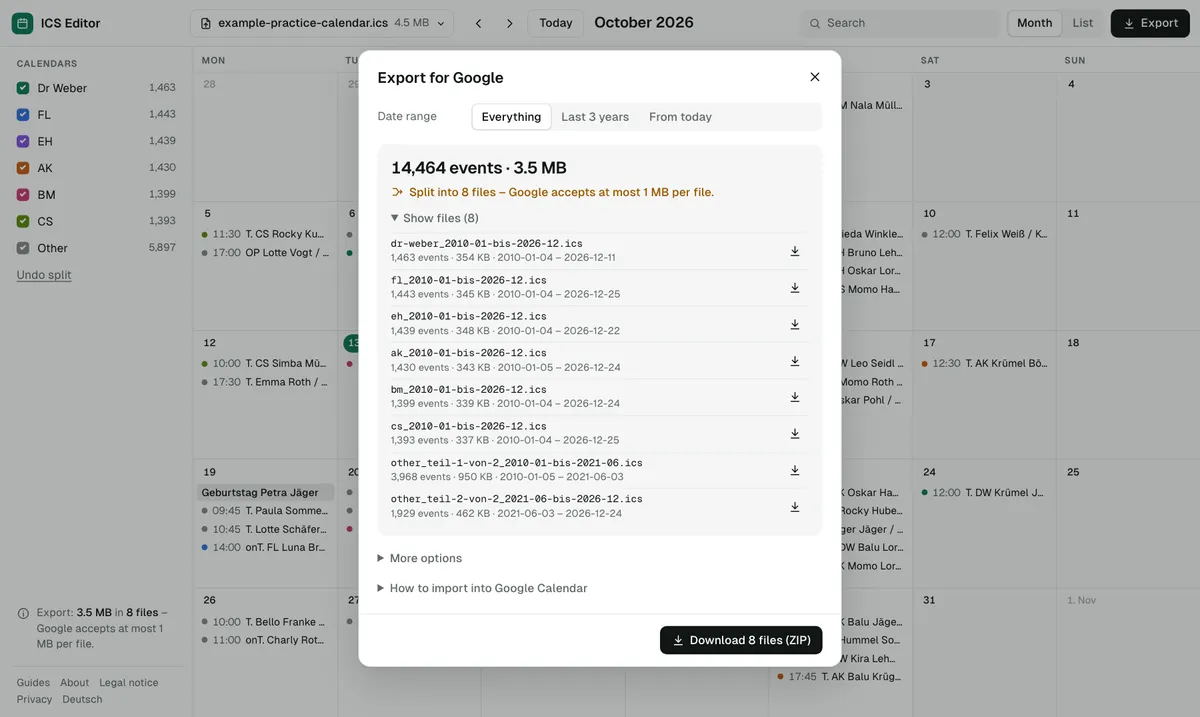
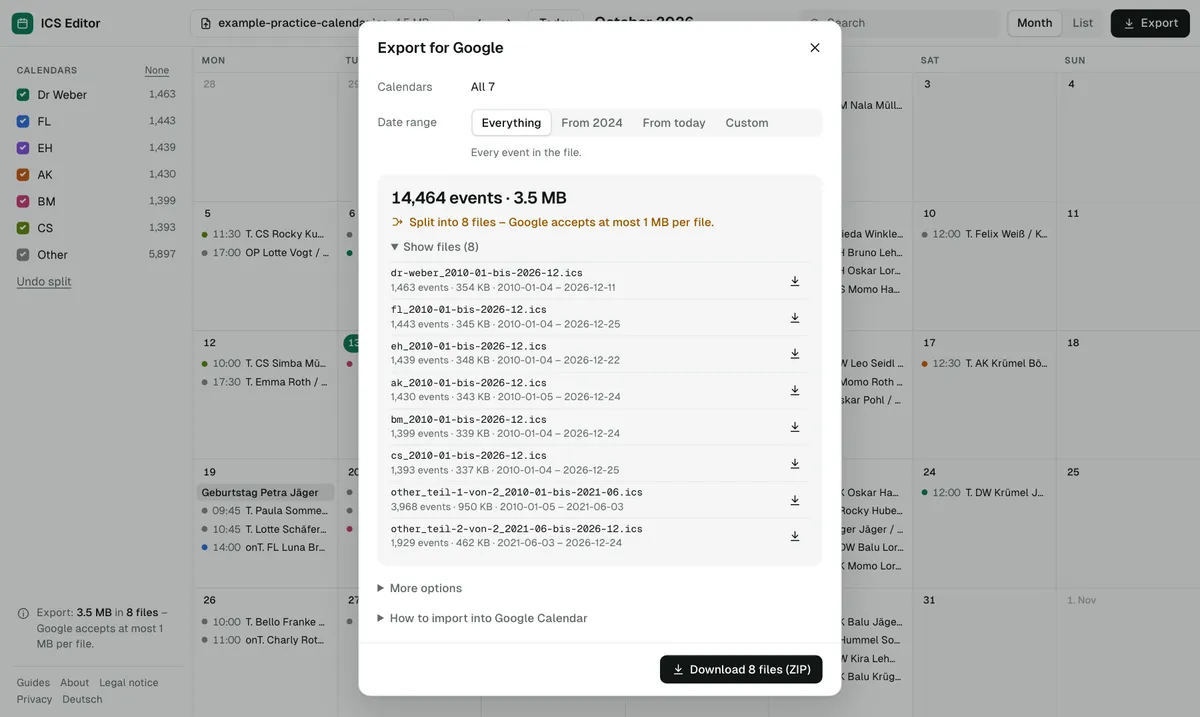
Export: nur angehakte Kalender, eigener Zeitraum, klarere Zeitraum-Knöpfe
- Links ausgeblendete Kalender kommen nicht in den Export; Hinweis „n von m“ mit „Alle einbeziehen“
- Seitenleiste: alle Kalender auf einmal ein- oder ausblenden
- Zeitraum „Eigener“: ganze Jahre (mehrere wählbar) oder Von–Bis
- „Letzte 3 Jahre“ heißt jetzt „Ab 2024“ und behält kommende Termine; Erklärzeile unter den Knöpfen
- Tests und Bildschirmfotos aktualisiert

diff --git a/src/components/tool/Export.tsx b/src/components/tool/Export.tsx
@@ -3,31 +3,34 @@ import { useState } from 'preact/hooks';
 import type { Format, Loaded, PlanRequest, PlanResult } from '../../lib/engine';
 import type { Selection, SplitConfig } from '../../lib/plan';
 import { ALL, NO_CLEAN } from '../../lib/plan';
+import { parseIsoDay } from '../../lib/datetime';
 import { call, download } from './client';
 import { H, Icon, useT } from './ui';
 import { Modal } from './Dialogs';
 
-export interface ExportOpts { range: 'all' | 'last3' | 'future'; admin: boolean; cancelled: boolean; dupes: boolean; phones: boolean; desc: boolean; uids: boolean; format: Format }
-export const DEFAULT_EXPORT: ExportOpts = { range: 'all', admin: true, cancelled: false, dupes: false, phones: false, desc: false, uids: false, format: 'ics' };
+export interface ExportOpts { range: 'all' | 'last3' | 'future' | 'custom'; from: string; to: string; years: number[]; admin: boolean; cancelled: boolean; dupes: boolean; phones: boolean; desc: boolean; uids: boolean; format: Format }
+export const DEFAULT_EXPORT: ExportOpts = { range: 'all', from: '', to: '', years: [], admin: true, cancelled: false, dupes: false, phones: false, desc: false, uids: false, format: 'ics' };
 
 const statusWords = (loaded: Loaded) => (loaded.suggestions.find((s) => s.kind === 'status')?.values ?? []).filter((v) => v.value !== 'STATUS:CANCELLED');
 
 /** Baut aus den Export-Optionen die Anfrage an den Rechenkern. */
-export function exportRequest(o: ExportOpts, sel: Selection, split: SplitConfig, loaded: Loaded): PlanRequest {
+export function exportRequest(o: ExportOpts, sel: Selection, split: SplitConfig, loaded: Loaded, hidden: string[]): PlanRequest {
   const y = new Date().getFullYear();
   return {
     selection: {
       ...ALL, today: sel.today, deleted: sel.deleted,
-      years: o.range === 'last3' ? [y - 2, y - 1, y] : null, hidePast: o.range === 'future',
+      years: o.range === 'custom' && o.years.length ? [...o.years].sort() : null, hidePast: o.range === 'future',
+      from: o.range === 'last3' ? Date.UTC(y - 2, 0, 1) : o.range === 'custom' ? parseIsoDay(o.from) : null, to: o.range === 'custom' ? parseIsoDay(o.to) : null,
       dropCancelled: o.cancelled, dropWords: o.cancelled ? statusWords(loaded).map((v) => v.value) : [], dedupe: o.dupes
     },
     clean: { ...NO_CLEAN, dropAdmin: o.admin, maskPhones: o.phones, maskEmails: o.phones, dropDescription: o.desc, newUids: o.uids },
-    split, format: o.format
+    split, format: o.format, hidden
   };
 }
 
-export function ExportDialog({ open, onClose, loaded, plan, opts, setOpts, req }: {
+export function ExportDialog({ open, onClose, loaded, plan, opts, setOpts, req, calCount, hiddenCount, onShowAll }: {
   open: boolean; onClose: () => void; loaded: Loaded; plan: PlanResult | null; opts: ExportOpts; setOpts: (o: ExportOpts) => void; req: PlanRequest;
+  calCount: number; hiddenCount: number; onShowAll: () => void;
 }) {
   const { t, n, b, d } = useT();
   const [busy, setBusy] = useState('');
@@ -45,6 +48,11 @@ export function ExportDialog({ open, onClose, loaded, plan, opts, setOpts, req }
   const tone = !plan || !plan.events ? 'bad' : files.length > withEvents ? 'warn' : 'ok';
   const status = !plan ? '' : !plan.events ? t('k.ex.empty') : files.length > withEvents ? t('k.ex.split', { n: files.length }) : files.length === 1 ? t('k.ex.fits1') : t('k.ex.fitsN', { n: files.length });
   const bytes = plan ? (plan.format === 'csv' ? plan.csv.bytes : plan.ics.bytes) : 0;
+  const years = (() => {
+    const m = new Map<number, number>();
+    for (const c of cals) for (const x of c.perYear) m.set(x.year, (m.get(x.year) ?? 0) + x.count);
+    return [...m.entries()].filter(([, c]) => c > 0).sort((a, b) => b[0] - a[0]);
+  })();
   const set = (k: keyof ExportOpts, v: ExportOpts[keyof ExportOpts]) => setOpts({ ...opts, [k]: v });
 
   async function get(which: { cal: string; part: number } | 'zip', key: string) {
@@ -67,10 +75,39 @@ export function ExportDialog({ open, onClose, loaded, plan, opts, setOpts, req }
         </button>
       </>
     }>
+      {calCount > 1 && (
+        <div class="xr">
+          <div class="xl">{t('k.ex.cals')}</div>
+          <div class="x-line">{hiddenCount > 0
+            ? <>{t('k.ex.calsSome', { n: calCount - hiddenCount, m: calCount })} · <button type="button" class="link" onClick={onShowAll}>{t('k.ex.calsInclude')}</button></>
+            : t('k.ex.calsAll', { m: calCount })}</div>
+        </div>
+      )}
       <div class="xr">
         <div class="xl" id="ex-range">{t('k.ex.range')}</div>
-        <div class="seg" role="group" aria-labelledby="ex-range">
-          {(['all', 'last3', 'future'] as const).map((r) => <button type="button" aria-pressed={opts.range === r} onClick={() => set('range', r)}>{t(r === 'all' ? 'k.ex.all' : r === 'last3' ? 'k.ex.last3' : 'k.ex.future')}</button>)}
+        <div class="stack-sm">
+          <div class="seg" role="group" aria-labelledby="ex-range">
+            {(['all', 'last3', 'future', 'custom'] as const).map((r) => <button type="button" aria-pressed={opts.range === r} onClick={() => set('range', r)}>{t(r === 'all' ? 'k.ex.all' : r === 'last3' ? 'k.ex.last3' : r === 'future' ? 'k.ex.future' : 'k.ex.custom', { y: new Date().getFullYear() - 2 })}</button>)}
+          </div>
+          <div class="muted small">{t(('k.ex.hint.' + opts.range) as 'k.ex.hint.all', { y: new Date().getFullYear() - 2, d: d(req.selection.today) })}</div>
+          {opts.range === 'custom' && (
+            <div class="custom">
+              <div class="dates">
+                <label>{t('k.ex.from')} <input type="date" value={opts.from} onChange={(e) => setOpts({ ...opts, from: (e.target as HTMLInputElement).value, years: [] })} /></label>
+                <label>{t('k.ex.to')} <input type="date" value={opts.to} onChange={(e) => setOpts({ ...opts, to: (e.target as HTMLInputElement).value, years: [] })} /></label>
+                {(opts.from || opts.to || opts.years.length > 0) && <button type="button" class="link small" onClick={() => setOpts({ ...opts, from: '', to: '', years: [] })}>{t('k.ex.reset')}</button>}
+              </div>
+              <div class="muted small">{t('k.ex.years')} · {t('k.ex.yearsHint')}</div>
+              <div class="ychips">
+                {years.map(([y, c]) => (
+                  <button type="button" aria-pressed={opts.years.includes(y)} title={n(c)}
+                    onClick={() => setOpts({ ...opts, from: '', to: '', years: opts.years.includes(y) ? opts.years.filter((x) => x !== y) : [...opts.years, y] })}>
+                    {y}<span>{n(c)}</span>
+                  </button>
+                ))}
+              </div>
+            </div>
+          )}
         </div>
       </div>
 

diff --git a/src/styles/site.css b/src/styles/site.css
@@ -175,6 +175,8 @@ html.studio-mode .tool-shell { position: fixed; inset: 0; z-index: 40; height: a
 /* Seitenleiste */
 .side { border-right: 1px solid var(--line); padding: 14px 12px 12px; display: flex; flex-direction: column; gap: 18px; overflow: auto; background: var(--bg); scrollbar-width: thin; }
 .label { font-size: 11px; font-weight: 600; letter-spacing: .07em; text-transform: uppercase; color: var(--muted); padding: 0 8px 6px; margin: 0; }
+.label-row { display: flex; align-items: baseline; justify-content: space-between; gap: 8px; padding-right: 8px; }
+.label-row .link { font-size: 12px; }
 .cals { list-style: none; margin: 0; padding: 0; }
 .cal { display: flex; align-items: center; gap: 10px; min-height: 32px; padding: 4px 8px; border-radius: 7px; cursor: pointer; }
 .cal:hover { background: var(--soft); }
@@ -301,6 +303,17 @@ dialog.dlg::backdrop { background: var(--scrim); }
 .df { display: flex; align-items: center; gap: 10px; padding: 14px 22px; border-top: 1px solid var(--line); flex-wrap: wrap; }
 .xr { display: grid; grid-template-columns: 100px minmax(0, 1fr); gap: 12px; align-items: start; }
 .xl { color: var(--muted); padding-top: 6px; }
+.x-line { padding-top: 6px; }
+.custom { display: flex; flex-direction: column; gap: 8px; border: 1px solid var(--line); border-radius: 10px; padding: 12px; }
+.dates { display: flex; flex-wrap: wrap; align-items: center; gap: 8px 14px; }
+.dates label { display: inline-flex; align-items: center; gap: 6px; color: var(--muted); }
+.dates input { border: 1px solid var(--line); border-radius: 7px; background: var(--bg); height: 32px; padding: 0 8px; color: var(--text); }
+.ychips { display: flex; flex-wrap: wrap; gap: 6px; }
+.ychips button { display: inline-flex; flex-direction: column; align-items: center; min-width: 58px; padding: 4px 8px; border: 1px solid var(--line); border-radius: 8px; background: var(--bg); font-weight: 500; font-variant-numeric: tabular-nums; line-height: 1.25; }
+.ychips button span { font-size: 11px; font-weight: 400; color: var(--muted); }
+.ychips button:hover { background: var(--soft); }
+.ychips button[aria-pressed="true"] { background: var(--text); color: var(--bg); border-color: var(--text); }
+.ychips button[aria-pressed="true"] span { color: var(--bg); opacity: .75; }
 .checks { display: flex; flex-direction: column; gap: 0; }
 .ck { display: flex; align-items: center; gap: 10px; min-height: 32px; padding: 4px 8px; margin: 0 -8px; border-radius: 7px; cursor: pointer; }
 .ck:hover { background: var(--soft); }

diff --git a/tests/e2e/tool.spec.ts b/tests/e2e/tool.spec.ts
@@ -140,9 +140,43 @@ test('Google-Export als ZIP mit zwei Kalendern', async ({ page }) => {
   await loaded(page);
   await expect(sidebarCal(page, 'Praxis')).toBeVisible();
   await expect(sidebarCal(page, 'Privat')).toBeVisible();
-  // Kalender ausblenden: Monatsansicht zeigt nur noch den anderen
+  // Ausgeblendete Kalender kommen nicht in den Export
   await sidebarCal(page, 'Privat').locator('input').uncheck();
   await expect(sidebarCal(page, 'Privat').locator('input')).not.toBeChecked();
+  await page.getByRole('button', { name: 'Exportieren' }).click();
+  const ex = page.getByRole('dialog', { name: 'Für Google exportieren' });
+  await expect(ex.getByText(/1 von 2/)).toBeVisible();
+  await ex.getByText(/Dateien? anzeigen|Dateiname/).click();
+  await expect(ex.locator('.files li')).toHaveCount(1);
+  await expect(ex.locator('.files')).not.toContainText(/privat/i);
+  await ex.getByRole('button', { name: 'Alle einbeziehen' }).click();
+  await expect(ex.getByText('Alle 2')).toBeVisible();
+  await page.keyboard.press('Escape');
+  // Alle auf einmal aus- und einblenden
+  await page.getByRole('button', { name: 'Alle Kalender ausblenden' }).click();
+  await expect(page.locator('.side .cal input:checked')).toHaveCount(0);
+  await page.getByRole('button', { name: 'Alle Kalender einblenden' }).click();
+  await expect(page.locator('.side .cal input:checked')).toHaveCount(2);
+});
+
+test('Export: eigener Zeitraum mit Jahren und Datum', async ({ page }) => {
+  await sample(page);
+  await page.getByRole('button', { name: 'Exportieren' }).click();
+  const ex = page.getByRole('dialog', { name: 'Für Google exportieren' });
+  const big = ex.locator('.result .big');
+  await expect(big).toContainText('Termine');
+  const all = await big.textContent();
+  await ex.getByRole('button', { name: 'Eigener' }).click();
+  await ex.locator('.ychips button').first().click();
+  await expect(big).not.toHaveText(all!);
+  const oneYear = await big.textContent();
+  await ex.locator('.ychips button').nth(1).click();
+  await expect(big).not.toHaveText(oneYear!);
+  await ex.getByLabel('Von', { exact: true }).fill('2025-01-01');
+  await ex.getByLabel('Bis', { exact: true }).fill('2025-01-31');
+  await ex.getByLabel('Bis', { exact: true }).blur();
+  await expect(ex.locator('.ychips button[aria-pressed="true"]')).toHaveCount(0);
+  await expect(big).not.toHaveText(oneYear!);
 });
 
 test('Mehrere ICS-Dateien auf einmal werden getrennte Kalender', async ({ page }) => {

diff --git a/src/i18n/ui.ts b/src/i18n/ui.ts
@@ -99,8 +99,26 @@ const de = {
   'k.ex.title': 'Für Google exportieren',
   'k.ex.range': 'Zeitraum',
   'k.ex.all': 'Alles',
-  'k.ex.last3': 'Letzte 3 Jahre',
+  'k.ex.last3': 'Ab {y}',
+  'k.ex.hint.all': 'Alle Termine der Datei.',
+  'k.ex.hint.last3': 'Ab 1. Januar {y} – dazu alle kommenden Termine. Ältere bleiben weg.',
+  'k.ex.hint.future': 'Ab heute ({d}) – nur kommende Termine. Vergangene bleiben weg.',
+  'k.ex.hint.custom': 'Wähle ganze Jahre oder ein eigenes Von–Bis.',
   'k.ex.future': 'Ab heute',
+  'k.ex.custom': 'Eigener',
+  'k.ex.from': 'Von',
+  'k.ex.to': 'Bis',
+  'k.ex.years': 'Ganze Jahre',
+  'k.ex.yearsHint': 'Mehrere Jahre gehen auch.',
+  'k.ex.reset': 'Zurücksetzen',
+  'k.ex.cals': 'Kalender',
+  'k.ex.calsSome': '{n} von {m} – nur die links angehakten',
+  'k.ex.calsAll': 'Alle {m}',
+  'k.ex.calsInclude': 'Alle einbeziehen',
+  'k.allShow': 'Alle',
+  'k.allHide': 'Keine',
+  'k.allShowL': 'Alle Kalender einblenden',
+  'k.allHideL': 'Alle Kalender ausblenden',
   'k.ex.moreOpts': 'Mehr Optionen',
   'k.ex.omit': 'Weglassen',
   'k.ex.admin': 'Technische Zusatzdaten',
@@ -654,8 +672,26 @@ const en: Dict = {
   'k.ex.title': 'Export for Google',
   'k.ex.range': 'Date range',
   'k.ex.all': 'Everything',
-  'k.ex.last3': 'Last 3 years',
+  'k.ex.last3': 'From {y}',
+  'k.ex.hint.all': 'Every event in the file.',
+  'k.ex.hint.last3': 'From 1 January {y} – plus all upcoming events. Older ones are left out.',
+  'k.ex.hint.future': 'From today ({d}) – upcoming events only. Past ones are left out.',
+  'k.ex.hint.custom': 'Pick whole years or your own from–to.',
   'k.ex.future': 'From today',
+  'k.ex.custom': 'Custom',
+  'k.ex.from': 'From',
+  'k.ex.to': 'To',
+  'k.ex.years': 'Whole years',
+  'k.ex.yearsHint': 'You can pick several years.',
+  'k.ex.reset': 'Reset',
+  'k.ex.cals': 'Calendars',
+  'k.ex.calsSome': '{n} of {m} – only the ones ticked on the left',
+  'k.ex.calsAll': 'All {m}',
+  'k.ex.calsInclude': 'Include all',
+  'k.allShow': 'All',
+  'k.allHide': 'None',
+  'k.allShowL': 'Show all calendars',
+  'k.allHideL': 'Hide all calendars',
   'k.ex.moreOpts': 'More options',
   'k.ex.omit': 'Leave out',
   'k.ex.admin': 'Technical extras',

diff --git a/src/components/tool/Tool.tsx b/src/components/tool/Tool.tsx
@@ -97,7 +97,7 @@ function App({ h1, lead, links }: { h1: string; lead: string; links: Links }) {
   }, [studio]);
 
   const viewReq = useMemo<PlanRequest>(() => ({ selection: { ...ALL, today, deleted: sel.deleted }, clean: NO_CLEAN, split, format: 'ics' }), [sel.deleted, split, today]);
-  const exportReq = useMemo<PlanRequest | null>(() => (loaded ? exportRequest(opts, sel, split, loaded) : null), [opts, sel, split, loaded]);
+  const exportReq = useMemo<PlanRequest | null>(() => (loaded ? exportRequest(opts, sel, split, loaded, hidden) : null), [opts, sel, split, loaded, hidden]);
 
   useEffect(() => {
     if (!loaded || !exportReq) return;
@@ -361,7 +361,8 @@ function App({ h1, lead, links }: { h1: string; lead: string; links: Links }) {
       {drag && <div class="drop-overlay" aria-hidden="true"><Icon name="upload" size={28} /> {t('k.drop')}</div>}
 
       {studio && <>
-        <ExportDialog open={dialog === 'export'} onClose={() => setDialog(null)} loaded={loaded!} plan={plan} opts={opts} setOpts={setOpts} req={exportReq!} />
+        <ExportDialog open={dialog === 'export'} onClose={() => setDialog(null)} loaded={loaded!} plan={plan} opts={opts} setOpts={setOpts} req={exportReq!}
+          calCount={cals.length} hiddenCount={cals.filter((c) => hidden.includes(c.key)).length} onShowAll={() => setHidden([])} />
         <SplitDialog open={dialog === 'split'} onClose={() => setDialog(null)} loaded={loaded!} split={split} setSplit={(s) => { setSplit(s); setHidden([]); setActive(null); }} onDone={(k) => toast(t('k.splitDone', { n: k }))} />
         <InfoDialog open={dialog === 'info'} onClose={() => setDialog(null)} loaded={loaded!} table={table} sourceText={sourceTextOf(loaded!, table, t, n, b)}
           onOpen={open} onSample={(w) => void sample(w)} onTemplate={(w) => void template(w)} onTable={() => setDialog('table')} />

diff --git a/src/lib/engine.ts b/src/lib/engine.ts
@@ -22,7 +22,8 @@ import { encodeWindows1252, sampleBirthdayRows, samplePracticeCsv, samplePractic
 
 export type Format = 'ics' | 'csv';
 
-export interface PlanRequest { selection: Selection; clean: CleanOptions; split: SplitConfig; format: Format }
+/** hidden: Ziel-Kalender (Schlüssel), die links ausgeblendet sind – sie kommen nicht in den Export. */
+export interface PlanRequest { selection: Selection; clean: CleanOptions; split: SplitConfig; format: Format; hidden?: string[] }
 
 export interface PartInfo { index: number; events: number; bytes: number; from: number; to: number; file: string }
 export interface CalInfo { key: string; name: string; events: number; bytes: number; rest?: boolean; parts: PartInfo[] }
@@ -235,7 +236,10 @@ interface Planned { buckets: ReturnType<typeof assign>['buckets']; out: OutCalen
 
 function computePlan(req: PlanRequest): Planned {
   const sel = select(S.groups, req.selection);
-  const { buckets, multiMatched } = assign(sel.groups, req.split, S.cals);
+  const all = assign(sel.groups, req.split, S.cals);
+  const hide = new Set(req.hidden ?? []);
+  const buckets = hide.size ? all.buckets.filter((x) => !hide.has(x.key)) : all.buckets;
+  const multiMatched = all.multiMatched;
   const sz = sizes(req.clean);
   const out = planCalendars(buckets, S.cals, sz.ics);
   const csvOut = buckets.map((b) => { const p = packCsv(b.groups, sz.csv); return { name: b.name, key: b.key, parts: p.parts, skipped: p.skippedSeries }; });

diff --git a/src/components/tool/Studio.tsx b/src/components/tool/Studio.tsx
@@ -50,7 +50,12 @@ export function Sidebar(p: StudioProps & { links: Links; onSplit: () => void; on
   return (
     <>
       <section aria-labelledby="side-cals">
-        <h2 id="side-cals" class="label">{t('k.calendars')}</h2>
+        <div class="label-row">
+          <h2 id="side-cals" class="label">{t('k.calendars')}</h2>
+          {p.cals.length > 1 && (p.hidden.length > 0
+            ? <button type="button" class="link small" aria-label={t('k.allShowL')} onClick={() => p.setHidden([])}>{t('k.allShow')}</button>
+            : <button type="button" class="link small" aria-label={t('k.allHideL')} onClick={() => p.setHidden(p.cals.map((c) => c.key))}>{t('k.allHide')}</button>)}
+        </div>
         <ul class="cals">
           {p.cals.map((c) => (
             <li><label class="cal">
